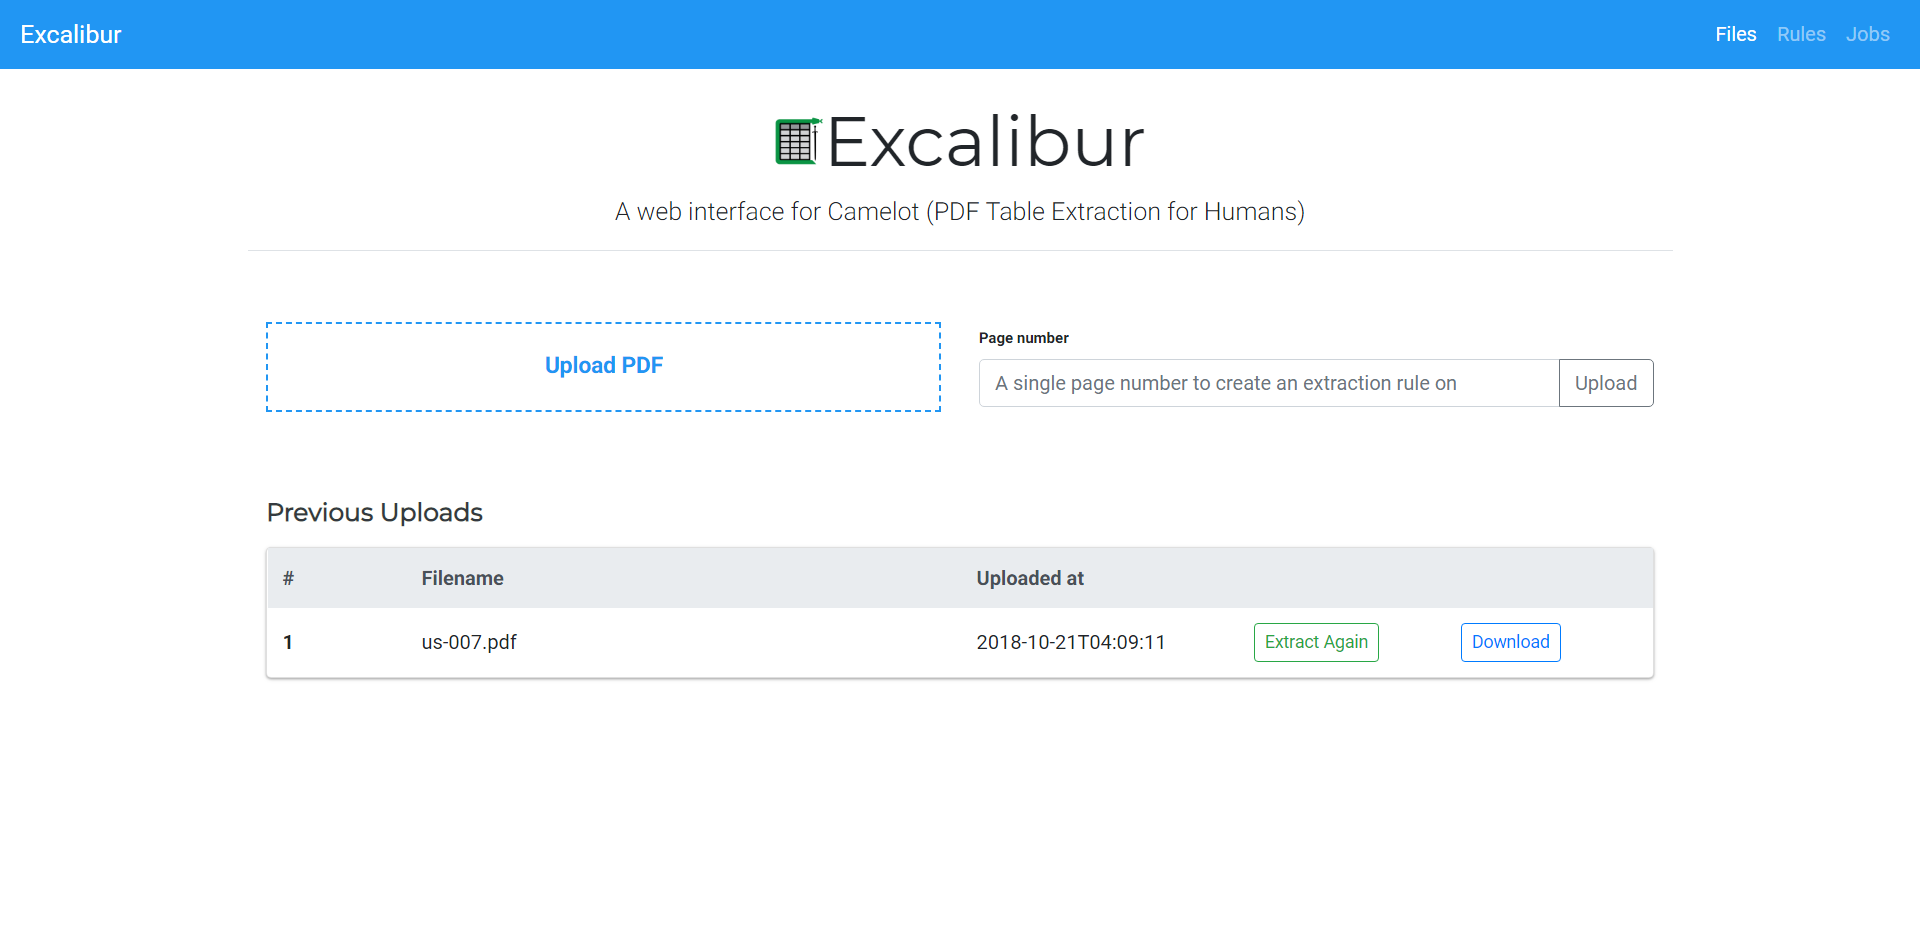
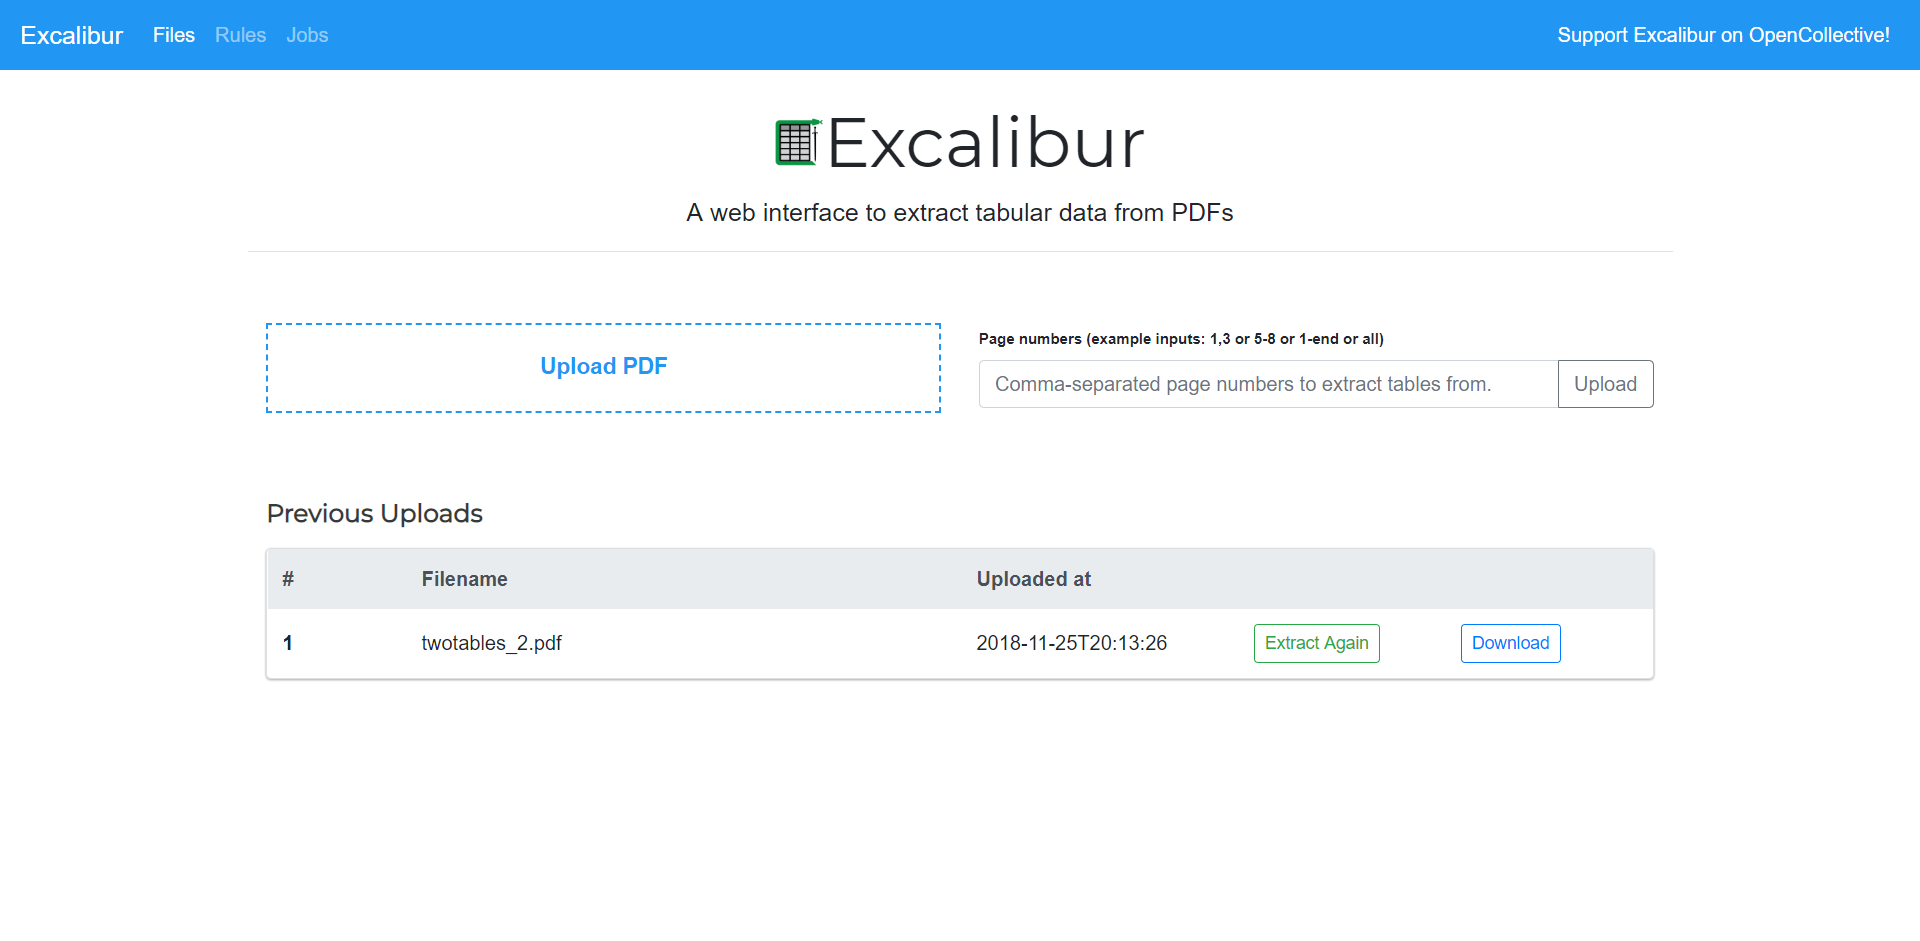
Update README and docs

diff --git a/README.md b/README.md
@@ -14,7 +14,7 @@
 
 ## Using Excalibur
 
-After [installation with pip](https://excalibur-py.readthedocs.io/en/master/user/install.html), you can initialize the metadata database using:
+After [installation with pip](https://excalibur-py.readthedocs.io/en/master/user/install.html), you need to initialize the metadata database using:
 
 <pre>
 $ excalibur initdb
@@ -26,28 +26,43 @@ And then start the webserver using:
 $ excalibur webserver
 </pre>
 
-That's it! Now you can go to http://localhost:5000 and extract data tables from your PDFs using the web interface! Check out the [usage section](https://excalibur-py.readthedocs.io/en/master/user/usage.html) of the documentation for step-by-step instructions.
+That's it! Now you can go to http://localhost:5000 and extract tabular data from your PDFs.
 
-**Note:** You can also download executables for Windows and Linux from the [releases page](https://github.com/camelot-dev/excalibur/releases)!
+1. **Upload** a PDF and enter the page numbers you want to extract tables from.
+
+2. Go to each page and select the table by drawing a box around it. (You can choose to skip this step since Excalibur can automatically detect tables on its own. Click on "**Autodetect tables**" to see what Excalibur sees.)
+
+3. Choose a flavor (Lattice or Stream) from "**Advanced**".
+
+    a. **Lattice**: For tables formed with lines.
+
+    b. **Stream**: For tables formed with whitespaces.
+
+4. Click on "**View and download data**" to see the extracted tables.
+
+5. Select your favorite format (CSV/Excel/JSON/HTML) and click on "**Download**"!
+
+**Note:** You can also download executables for Windows and Linux from the [releases page](https://github.com/camelot-dev/excalibur/releases) and run them directly!
 
 ![usage.gif](https://excalibur-py.readthedocs.io/en/master/_images/usage.gif)
 
 ## Why Excalibur?
 
-- **Excalibur gives you complete control over your data**. All file storage and processing happens on your own local or remote machine.
-- Excalibur can be configured with **MySQL and Celery** for parallel and distributed workloads. By default, sqlite and multiprocessing are used for sequential workloads.
-- You can save table extraction [rules](https://excalibur-py.readthedocs.io/en/master/user/concepts.html#rule) as **presets** and apply them on different PDFs to extract tables with similar structures.
-- Excalibur uses [Camelot](https://camelot-py.readthedocs.io/) under the hood, which can detect and extract tables better than other open-source libraries and tools. You can check out a [comparison with other libraries and tools here](https://github.com/socialcopsdev/camelot/wiki/Comparison-with-other-PDF-Table-Extraction-libraries-and-tools).
+- Extracting tables from PDFs is hard. A simple copy-and-paste from a PDF into an Excel doesn't preserve table structure. **Excalibur makes PDF table extraction very easy**, by automatically detecting tables in PDFs and letting you save them into CSVs and Excels.
+- Excalibur uses [Camelot](https://camelot-py.readthedocs.io/) under the hood, which gives you additional settings to tweak table extraction and get the best results. You can see how it performs better than other open-source tools and libraries [in this comparison](https://github.com/socialcopsdev/camelot/wiki/Comparison-with-other-PDF-Table-Extraction-libraries-and-tools).
+- You can save table extraction [settings](https://excalibur-py.readthedocs.io/en/master/user/concepts.html#rule) (like table areas) for a PDF once, and apply them on new PDFs to extract tables with similar structures.
+- You get complete control over your data. All file storage and processing happens on your own local or remote machine.
+- Excalibur can be configured with MySQL and Celery for parallel and distributed workloads. By default, sqlite and multiprocessing are used for sequential workloads.
 
 ## Support us on OpenCollective
 
-If Excalibur solves your PDF table extraction needs, please consider supporting its development by [becoming a backer or a sponsor on OpenCollective](https://opencollective.com/excalibur)!
+If Excalibur helped you extract tables from PDFs, please consider supporting its development by [becoming a backer or a sponsor on OpenCollective](https://opencollective.com/excalibur)!
 
 ## Installation
 
 ### Using pip
 
-After installing [ghostscript](https://www.ghostscript.com/), which is one of the requirements for Camelot (See [install instructions](https://camelot-py.readthedocs.io/en/master/user/install.html#using-pip)), you can simply use pip to install Excalibur:
+After installing [ghostscript](https://www.ghostscript.com/), which is one of the requirements for Camelot (See [install instructions](https://camelot-py.readthedocs.io/en/master/user/install-deps.html)), you can simply use pip to install Excalibur:
 
 <pre>
 $ pip install excalibur-py
@@ -70,7 +85,7 @@ $ pip install .
 
 ## Documentation
 
-Great documentation is available at [http://excalibur-py.readthedocs.io/](http://excalibur-py.readthedocs.io/).
+Fantastic documentation is available at [http://excalibur-py.readthedocs.io/](http://excalibur-py.readthedocs.io/).
 
 ## Development
 

diff --git a/docs/user/usage.rst b/docs/user/usage.rst
@@ -7,8 +7,8 @@ This part of the documentation demonstrates usage of the web interface.
 
 A table extraction workflow on Excalibur can be broken down into three simple steps.
 
-Upload file
------------
+Upload a PDF
+------------
 
 When you open http://localhost:5000, you will see the following screen.
 
@@ -16,52 +16,55 @@ When you open http://localhost:5000, you will see the following screen.
     :scale: 40%
     :align: center
 
-This is the upload view where you can upload a PDF, select a page number to create a table extraction *rule* on and click "Upload".
+This is where you upload a PDF, select page numbers you want to extract tables from and click on "Upload".
 
-You can also see previously uploaded PDFs, extract tables from them by creating a different *rule* using "Extract Again" or download the data tables for the most recent *job* associated with that PDF by clicking on "Download".
+You can also see previously uploaded PDFs, extract tables from them again by clicking on "Extract Again" or download tables that were extracted last time by clicking on "Download".
 
-Create table extraction rule
-----------------------------
+Select table areas and other settings
+-------------------------------------
 
-Clicking on "Upload" or "Extract Again" will take you to the *workspace* for a PDF.
+Clicking on "Upload" or "Extract Again" will take you to a **Workspace**.
 
-.. image:: ../_static/screenshots/workspace.png
+.. image:: ../_static/screenshots/stream/stream.png
     :scale: 40%
     :align: center
 
-Here you can create a table extraction rule on the PDF page number you selected, and apply it on that same or multiple pages of the PDF. Let's create an extraction rule on a `PDF`_.
+Here you can select table areas by clicking and dragging across a PDF page's image. You can also tweak Camelot's `advanced settings`_. Let's extract the table from this `PDF file`_ as an example:
 
-.. _PDF: https://github.com/socialcopsdev/camelot/blob/master/tests/files/tabula/us-007.pdf
+.. _advanced settings: https://camelot-py.readthedocs.io/en/master/user/advanced.html
+.. _PDF file: https://github.com/socialcopsdev/camelot/blob/master/tests/files/tabula/us-007.pdf
 
-Since the table has no lines, you should use the Stream flavor.
+.. note:: This is a worst-case example where the table is buried deep inside the text. In most cases, you don't need to select table areas, columns or change the advanced settings since Excalibur can do that automatically. You can click on "Autodetect tables" to see what table areas Excalibur detected.
 
-.. image:: ../_static/screenshots/stream/rule_options.png
-    :scale: 65%
-    :align: center
-
-As the table is located in a small part of the page, you need to select the table area.
+Since the table is formed using whitespaces, you need to select the **Stream** flavor from "**Advanced**". You also need to select a table area in this case for the reason mentioned in the note above.
 
 .. image:: ../_static/screenshots/stream/table_area.png
     :scale: 40%
     :align: center
 
-Optionally, you can also select a column separator by clicking on "Add Separator" inside the Stream Rule box.
-
-.. note:: Double-clicking on a column separator will delete it.
+Optionally, you can also add a column on a page by clicking on "Add column" button.
 
 .. image:: ../_static/screenshots/stream/column.png
     :scale: 40%
     :align: center
 
-Finally, you can click on "Extract" to start a table extraction *job*. This will save the extraction rule that you created above as a preset which you can use in the future on PDFs with similar table structures as the one you created the rule on.
+.. note:: To delete a column, double-click on it.
 
-.. note:: The Lattice flavor for tables with lines doesn't have a "Add Separator" button. It also doesn't need a table area (though you can specify it) since it reliably detects table boundaries and column separators on its own. In most cases, you won't need to tweak any of its configuration options.
+.. note:: The Lattice flavor doesn't need columns so the "Add column" button will be disabled when you select that flavor.
 
-Download file
--------------
+Finally, you can click on "View and Download Data". This will save the table areas, columns and advanced settings as a preset which can be used in the future on PDFs with similar table structures.
 
-Clicking on "Extract" will take you to the following screen. Here you can preview all the extracted tables and download them in CSV, Excel, JSON or HTML formats.
+View and download data
+----------------------
+
+Now you can view all the extracted tables and download them in CSV, Excel, JSON or HTML formats.
 
 .. image:: ../_static/screenshots/stream/extracted_data.png
     :scale: 40%
     :align: center
+
+----
+
+To know more about how **Lattice** and **Stream** work, check out Camelot's `how it works`_ documentation.
+
+.. _how it works: https://camelot-py.readthedocs.io/en/master/user/how-it-works.html

diff --git a/docs/index.rst b/docs/index.rst
@@ -24,7 +24,7 @@ Release v\ |version|. (:ref:`Installation <install>`)
 .. image:: https://badges.gitter.im/camelot-dev/Lobby.png
     :target: https://gitter.im/camelot-dev/Lobby
 
-**Excalibur** is a web interface to extract data tables from PDFs, written in **Python 3**! It powered by `Camelot <https://camelot-py.readthedocs.io/>`_.
+**Excalibur** is a web interface to extract tabular data from PDFs, written in **Python 3**! It powered by `Camelot <https://camelot-py.readthedocs.io/>`_.
 
 .. note:: Excalibur only works with text-based PDFs and not scanned documents. (As Tabula `explains`_, "If you can click and drag to select text in your table in a PDF viewer, then your PDF is text-based".)
 
@@ -41,11 +41,24 @@ And then start the webserver using::
 
     $ excalibur webserver
 
-That's it! Now you can go to http://localhost:5000 and extract data tables from your PDFs using the interface! Check out the `usage section`_ for step-by-step instructions.
+That's it! Now you can go to http://localhost:5000 and extract tabular data from your PDFs.
 
-.. note:: You can also download executables for Windows and Linux from the `releases page`_!
+1. **Upload** a PDF and enter the page numbers you want to extract tables from.
 
-.. _usage section: https://excalibur-py.readthedocs.io/en/master/user/usage.html
+2. Go to each page and select the table by drawing a box around it. (You can choose to skip this step since Excalibur can automatically detect tables on its own. Click on "**Autodetect tables**" to see what Excalibur sees.)
+
+3. Choose a flavor (Lattice or Stream) from "**Advanced**".
+
+    a. **Lattice**: For tables formed with lines.
+
+    b. **Stream**: For tables formed with whitespaces.
+
+4. Click on "**View and download data**" to see the extracted tables.
+
+5. Select your favorite format (CSV/Excel/JSON/HTML) and click on "**Download**"!
+
+.. note:: You can also download executables for Windows and Linux from the `releases page`_ and run them directly!
+
 .. _releases page: https://github.com/camelot-dev/excalibur/releases
 
 .. image:: _static/usage.gif
@@ -53,17 +66,18 @@ That's it! Now you can go to http://localhost:5000 and extract data tables from 
 Why Excalibur?
 --------------
 
-- **Excalibur gives you complete control over your data**. All file storage and processing happens on your own local or remote machine.
-- Excalibur can be configured with **MySQL and Celery** for parallel and distributed workloads. By default, sqlite and multiprocessing are used for sequential workloads.
-- You can save table extraction :ref:`rules <concepts>` as **presets** and apply them on different PDFs to extract tables with similar structures.
-- Excalibur uses `Camelot <https://camelot-py.readthedocs.io/>`_ under the hood, which can detect and extract tables better than other open-source libraries and tools. You can check out a `comparison with other libraries and tools here`_.
+- Extracting tables from PDFs is hard. A simple copy-and-paste from a PDF into an Excel doesn't preserve table structure. **Excalibur makes PDF table extraction very easy**, by automatically detecting tables in PDFs and letting you save them into CSVs and Excels.
+- Excalibur uses `Camelot <https://camelot-py.readthedocs.io/>`_ under the hood, which gives you additional settings to tweak table extraction and get the best results. You can see how it performs better than other open-source tools and libraries `in this comparison`_.
+- You can save table extraction :ref:`settings <faq>` (like table areas) for a PDF once, and apply them on new PDFs to extract tables with similar structures.
+- You get complete control over your data. All file storage and processing happens on your own local or remote machine.
+- Excalibur can be configured with MySQL and Celery for parallel and distributed workloads. By default, sqlite and multiprocessing are used for sequential workloads.
 
-.. _comparison with other libraries and tools here: https://github.com/socialcopsdev/camelot/wiki/Comparison-with-other-PDF-Table-Extraction-libraries-and-tools
+.. _in this comparison: https://github.com/socialcopsdev/camelot/wiki/Comparison-with-other-PDF-Table-Extraction-libraries-and-tools
 
 Support us on OpenCollective
 ----------------------------
 
-If Excalibur solves your PDF table extraction needs, please consider supporting its development by `becoming a backer or a sponsor on OpenCollective`_!
+If Excalibur helped you extract tables from PDFs, please consider supporting its development by `becoming a backer or a sponsor on OpenCollective`_!
 
 .. _becoming a backer or a sponsor on OpenCollective: https://opencollective.com/excalibur
 
@@ -78,8 +92,8 @@ This part of the documentation focuses on instructions to get you up and running
    user/intro
    user/install
    user/howto
-   user/concepts
    user/usage
+   user/faq
 
 The Contributor Guide
 ---------------------

diff --git a/docs/user/intro.rst b/docs/user/intro.rst
@@ -3,11 +3,11 @@
 Introduction
 ============
 
-Excalibur is a web interface built on top of `Camelot`_, which is a Python library to extract data tables from PDFs.
+Excalibur is a web interface built on top of `Camelot`_, which is a Python library to extract tabular data from PDFs.
 
 .. _Camelot: https://camelot-py.readthedocs.io/
 
-What's in a Name?
+What's in a name?
 -----------------
 
 Camelot was named after `The Camelot Project`_ (also the name of a castle in the `Arthurian legend`_). To follow the same theme, this project was named `Excalibur`_, which is the legendary sword of King Arthur.
@@ -16,17 +16,17 @@ Camelot was named after `The Camelot Project`_ (also the name of a castle in the
 .. _Arthurian legend: https://en.wikipedia.org/wiki/King_Arthur
 .. _Excalibur: https://en.wikipedia.org/wiki/Excalibur
 
-Why Another PDF Table Extraction tool?
---------------------------------------
+Why another tool?
+-----------------
 
-There are both open (`Tabula`_, `pdf-table-extract`_) and closed-source (`Smallpdf`_, `Docparser`_) tools that are widely used to extract data tables from PDFs. They either give a nice output or fail miserably. There is no in between. This is not helpful since everything in the real world, including PDF table extraction, is fuzzy. This leads to the creation of ad-hoc table extraction scripts for each type of PDF table.
+There are both open (`Tabula`_, `pdfplumber`_) and closed-source (`Smallpdf`_, `Docparser`_) tools that are widely used to extract data tables from PDFs. They either give a nice output or fail miserably. There is no in between. This is not helpful since everything in the real world, including PDF table extraction, is fuzzy. This leads to the creation of ad-hoc table extraction scripts for each type of PDF table.
 
 Excalibur uses Camelot under the hood, which was created to offer users complete control over table extraction. If you can't get your desired output with the default settings, you can tweak them and get the job done!
 
 Here is a `comparison`_ of Camelot's output with outputs from other open-source PDF parsing libraries and tools.
 
 .. _Tabula: http://tabula.technology
-.. _pdf-table-extract: https://github.com/ashima/pdf-table-extract
+.. _pdfplumber: https://github.com/jsvine/pdfplumber
 .. _Smallpdf: https://smallpdf.com
 .. _Docparser: https://docparser.com
 .. _comparison: https://github.com/socialcopsdev/camelot/wiki/Comparison-with-other-PDF-Table-Extraction-libraries-and-tools

diff --git a/docs/user/faq.rst b/docs/user/faq.rst
@@ -1,0 +1,37 @@
+.. _faq:
+
+FAQ
+===
+
+This part of the documentation answers some common questions. If you want to add a question (with or without an answer), you can `open an issue`_ on GitHub or submit a pull request which updates this file.
+
+.. _open an issue: https://github.com/camelot-dev/excalibur/issues/new
+
+What is a workspace?
+--------------------
+
+.. image:: ../_static/screenshots/workspace.png
+    :scale: 40%
+    :align: center
+
+A workspace is the part of the web interface where you can select table areas, add columns and tweak Camelot's `advanced settings <https://camelot-py.readthedocs.io/en/master/user/advanced.html>`_.
+
+What are rules?
+---------------
+
+For a PDF document, a set of table areas, columns and Camelot's `advanced settings <https://camelot-py.readthedocs.io/en/master/user/advanced.html>`_ which you select form a table extraction rule.
+
+Excalibur contains a rule manager where you can download saved rules and upload rules that you might have created on other Excalibur installations. To view all existing rules, click on "Rules" in the navigation bar on top.
+
+While on the workspace, you can select a saved rule by clicking on the "Select saved rule" dropdown. After you click on a saved rule, the table areas, columns and Camelot settings contained in that rule will be loaded on the workspace.
+
+.. image:: ../_static/gifs/saved-rule.gif
+    :scale: 40%
+    :align: center
+
+What are jobs?
+--------------
+
+When you click on "View and Download Data" on the workspace, Excalibur starts a table extraction job using the settings you specified. You can view a list of all historical jobs by clicking on "Jobs" in the navigation bar on top.
+
+To view and download the tables extracted in an older job, click on the "Download" button for that job.

diff --git a/docs/user/howto.rst b/docs/user/howto.rst
@@ -3,7 +3,7 @@
 How-to Guides
 =============
 
-Excalibur's architecture is heavily inspired from Airflow, so you may get a feeling of déjà vu while reading this page of the documentation. `Airflow LICENSE`_.
+Excalibur's architecture is heavily inspired from Airflow, so you may experience déjà vu while reading this page of the documentation. `Airflow LICENSE`_.
 
 .. _Airflow LICENSE: https://github.com/apache/incubator-airflow/blob/master/LICENSE
 
@@ -20,7 +20,7 @@ For example, the metadata database connection string can be set in ``excalibur.c
 Resetting the Metadata Database
 -------------------------------
 
-.. warning:: The following command will wipe your Excalibur metadata database, removing all information about uploaded files, saved extraction rules and finished/in-progress jobs.
+.. warning:: The following command will wipe your Excalibur metadata database, removing all information about uploaded files, saved settings and finished/in-progress jobs.
 
 You can reset the metadata database using::
 
@@ -29,7 +29,7 @@ You can reset the metadata database using::
 Using the MySQL Database Backend
 --------------------------------
 
-Excalibur uses SqlAlchemy to connect to a database backend. By default, stores all metadata in a sqlite database. To use MySQL, you need to first install MySQL and then create a database and a user.
+Excalibur uses SqlAlchemy to connect to a database backend. By default, a sqlite database is used. To use MySQL, you need to first install MySQL and then create a database and a user.
 
 Installing MySQL
 ^^^^^^^^^^^^^^^^
@@ -45,7 +45,7 @@ You can install MySQL using your system's package manager. For Ubuntu::
 
 And then set it up using::
 
-    $ mysql_secure_installation
+    $ sudo mysql_secure_installation
 
 Setup
 ^^^^^

diff --git a/docs/user/install.rst b/docs/user/install.rst
@@ -3,7 +3,7 @@
 Installation of Excalibur
 =========================
 
-This part of the documentation covers how to install Excalibur.
+This part of the documentation covers the steps to install Excalibur.
 
 Using pip
 ---------
@@ -13,7 +13,7 @@ After installing `ghostscript`_, which is one of the requirements for Camelot (S
     $ pip install excalibur-py
 
 .. _ghostscript: https://www.ghostscript.com/
-.. _install instructions: https://camelot-py.readthedocs.io/en/master/user/install.html#using-pip
+.. _install instructions: https://camelot-py.readthedocs.io/en/master/user/install-deps.html
 
 From the source code
 --------------------
